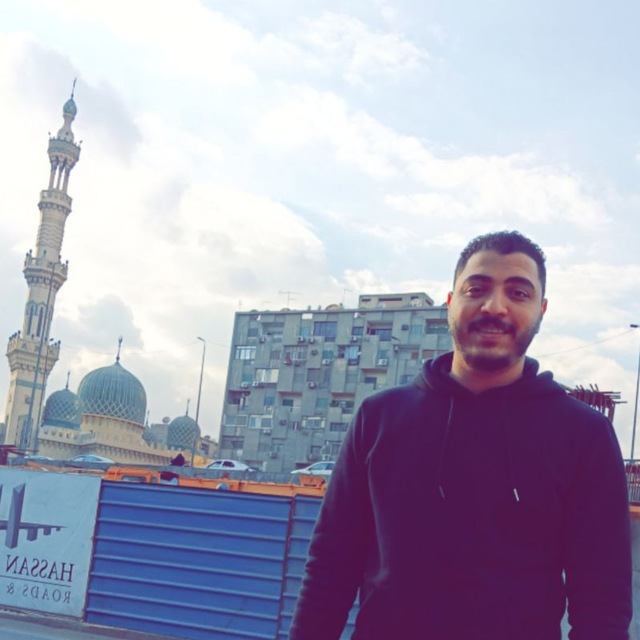
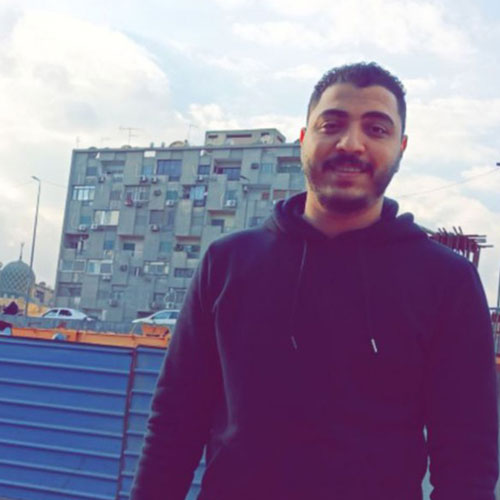
resize images

diff --git a/content/person/ehab_hassan/ehab_hassan.md b/content/person/ehab_hassan/ehab_hassan.md
@@ -4,7 +4,7 @@ name: Ehab Hassan
 rank: 3
 memberships: [tech]
 category: [foundation]
-bio: Positive person in every every aspect of life. Senior Graphic Designer & Web Developer at ThreeFold. Fell in love with ThreeFold as I dream about the world where everyone can be happy.
+bio: Positive person in every aspect of life. Senior Graphic Designer & Web Developer at ThreeFold. Fell in love with ThreeFold as I dream about the world where everyone can be happy.
 excerpt: Positive person in every every aspect of life.
 linkedin: https://www.linkedin.com/in/ehab-hassan-a00897116/
 github: https://github.com/ehab-hassan

diff --git a/content/person/mario_bassem/mariobassem.md b/content/person/mario_bassem/mariobassem.md
@@ -9,7 +9,7 @@ excerpt: Software Engineer.
 linkedin: https://www.linkedin.com/in/mario-wassef
 github: https://github.com/mariobassem
 websites: https://threefold.tech
-image: ./mario_bassem.jpeg
+image: ./mario.jpg
 projects: [threefold_tech]
 countries: [Egypt]
 cities: [Mansoura]
